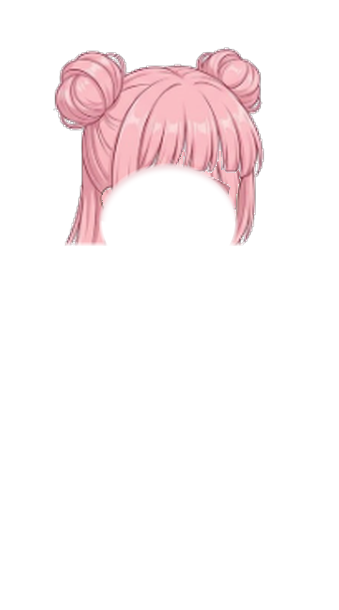
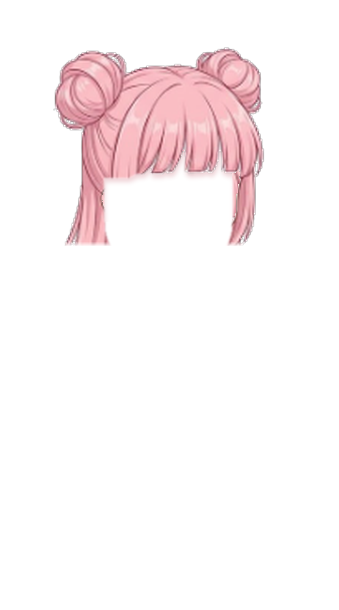
Natural bangs: keep each strand's own tip instead of a round cut
Claude-Session: https://claude.ai/code/session_013rW3iWcCHnwjRq7oDHQ6Zj

Changed region(s): [[0.3835, 0.2492, 0.59, 0.3115], [0.6195, 0.2492, 0.708, 0.4049], [0.295, 0.2803, 0.354, 0.4049]]

diff --git a/sw.js b/sw.js
@@ -1,7 +1,7 @@
 // 換裝小屋 Service Worker
 // 策略：有網路時一律先抓最新版（所以一更新就看得到），沒網路才用手機裡存的舊版。
 // 每次改檔案，把 VERSION +1，手機會自動換成新版。
-const VERSION = 5;
+const VERSION = 6;
 const CACHE = 'dressup-v' + VERSION;
 
 self.addEventListener('install', e => {

diff --git a/README.md b/README.md
@@ -14,7 +14,7 @@
   - 疊放順序：hairBack → base →（之後的衣服）→ face → hairFront。
 - 互動（index.html 下半部）：自然眨眼、點頭部＝摸頭（笑眼＋愛心）、點身體＝跳一下、換髮型＝轉圈、太久沒點會自己說話、連點 6 下會害羞。台詞在 `LINES`。
 - `index.html` 裡的 `CATS` 是素材清單，加新髮型/衣服/背景只要加一行。選擇存在 localStorage `dressup`。「存成照片」用 canvas 合成下載。
-- 髮型對齊做法：把頭髮依「臉洞」中心和下緣對到素體的頭（頭中心 x=168、下巴 y=248，畫布座標）。back 層＝整頂頭髮放身體後面；front 層＝下巴以上、扣掉臉部橢圓（cx168 cy222 rx66 ry56，羽化 3px）的頭髮，頭頂沒蓋到的空隙用附近頭髮的紋理補。眼睛位置：左 (130,192)、右 (209,192)。
+- 髮型對齊做法：把頭髮依「臉洞」中心和下緣對到素體的頭（頭中心 x=168、下巴 y=248，畫布座標）。back 層＝整頂頭髮放身體後面；front 層＝下巴以上的頭髮，臉部窗口＝臉部橢圓下半（cx168 cy222 rx64 ry56）＋上方每一欄在瀏海自己的髮尾切（限制在 y150～178 之間），所以瀏海保留原本的髮尾形狀、垂到睫毛上；瀏海下加淡陰影，頭頂沒蓋到的空隙用附近頭髮的紋理補。眼睛位置：左 (130,192)、右 (209,192)。
 - 素材來源：使用者用 ChatGPT / Gemini 之類的 AI 生成（同一張素體、只換衣服或頭髮），再傳給 Claude 去背、對齊。
   - 去背做法：從邊緣 flood fill，遇到深色輪廓線停下（亮度門檻約 190），再只保留最大的連通區塊，邊緣輕微模糊。
   - 要使用者「下載原圖」再傳，不要截圖（截圖太小會糊）；提示詞要寫「純白背景、完全相同的人物/姿勢/大小/位置」。
